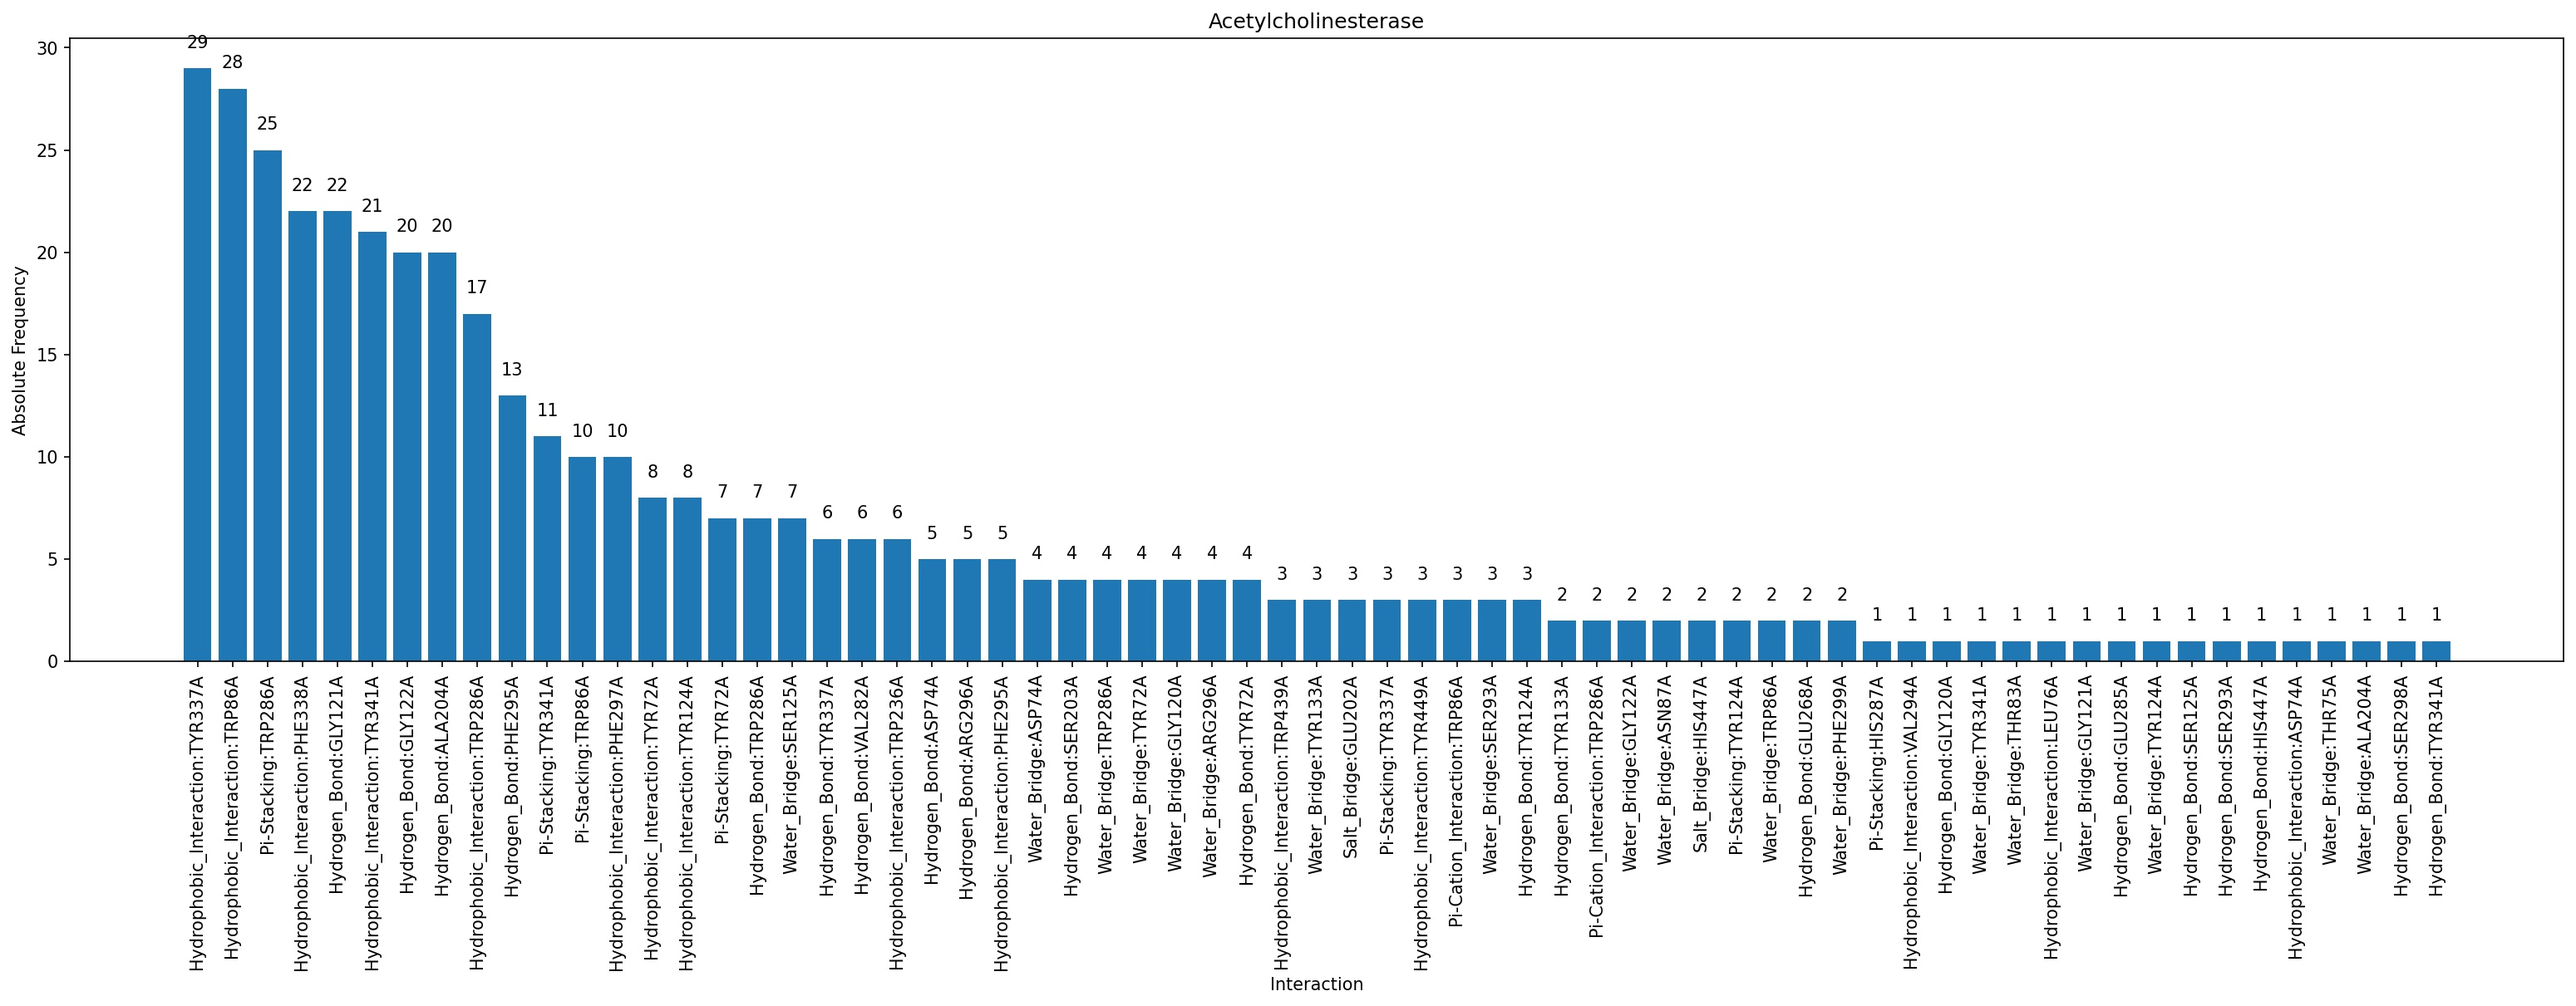
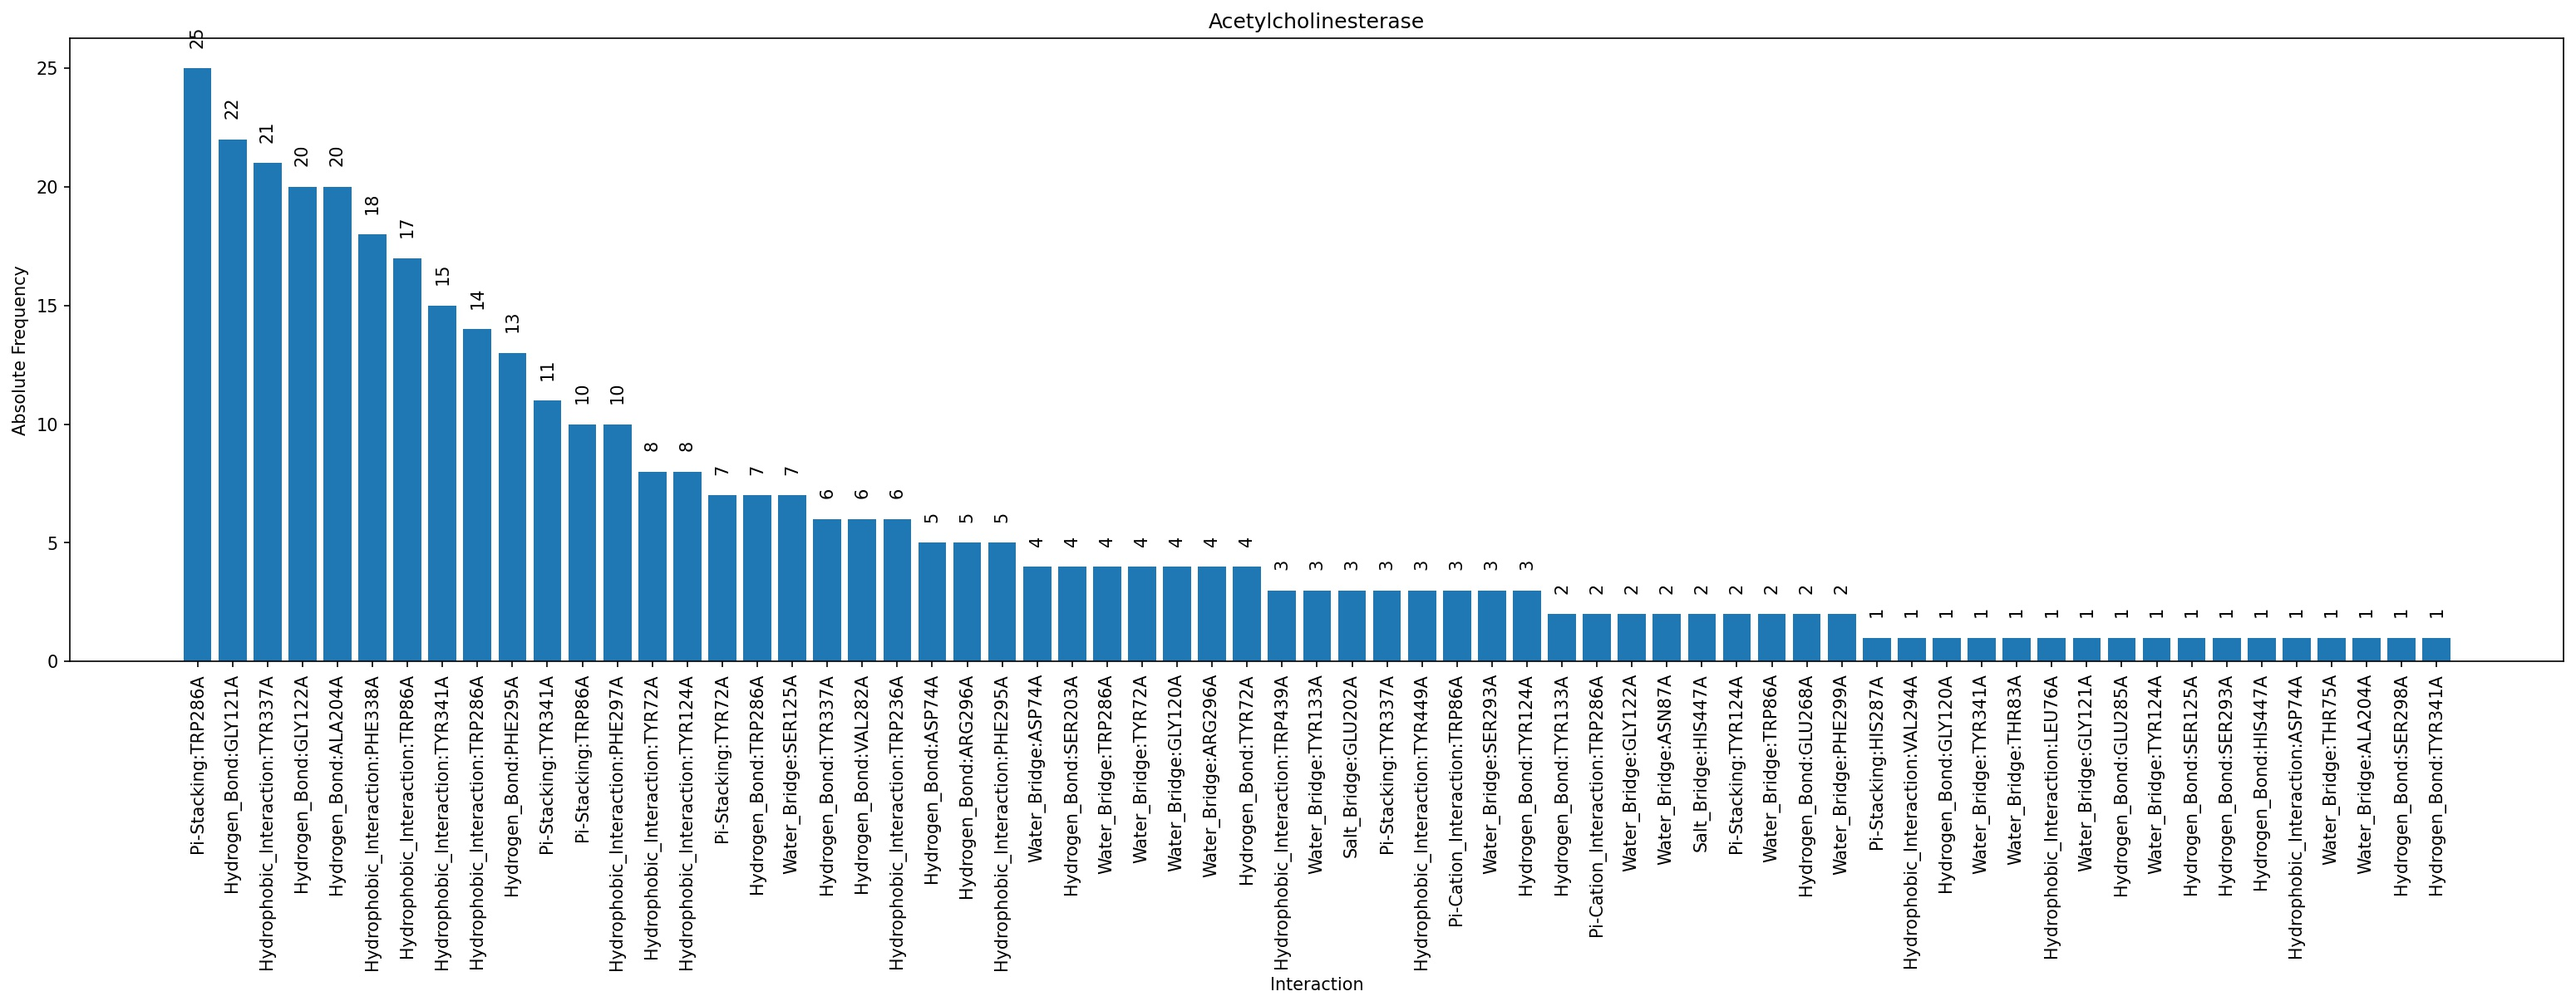
bump ACHE results to newer version

diff --git a/data/acetylcholinesterase/plip_analysis.py b/data/acetylcholinesterase/plip_analysis.py
@@ -22,13 +22,21 @@ if __name__ == '__main__':
     PDB_ENTRIES = list(df["PDB_ENTRY"])
     print("First 5 PDB entries:")
     print(PDB_ENTRIES[:5])
-    result = pa(PDB_ENTRIES, path = "structures")
+    result = pa(PDB_ENTRIES, path = "structures", normalize = False)
     r = result.save("results/acetylcholinesterase")
     print("Result saved in:")
     print(r)
     r = result.to_csv("results/acetylcholinesterase_freq.csv")
     result.plot("Acetylcholinesterase", filename = "results/acetylcholinesterase.jpg")
     result.plot("Acetylcholinesterase", filename = "results/acetylcholinesterase.png")
+    # normalized analysis
+    result = pa(PDB_ENTRIES, path = "structures", normalize = True)
+    r = result.save("results/acetylcholinesterase_normalized")
+    print("Result saved in:")
+    print(r)
+    r = result.to_csv("results/acetylcholinesterase_normalized_freq.csv")
+    result.plot("Acetylcholinesterase", filename = "results/acetylcholinesterase_normalized.jpg")
+    result.plot("Acetylcholinesterase", filename = "results/acetylcholinesterase_normalized.png")
 
     # clean up
     os.remove("PLIPAnalyzer.py")
